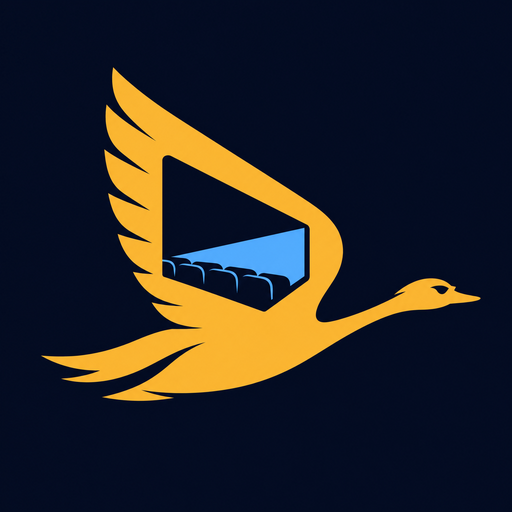
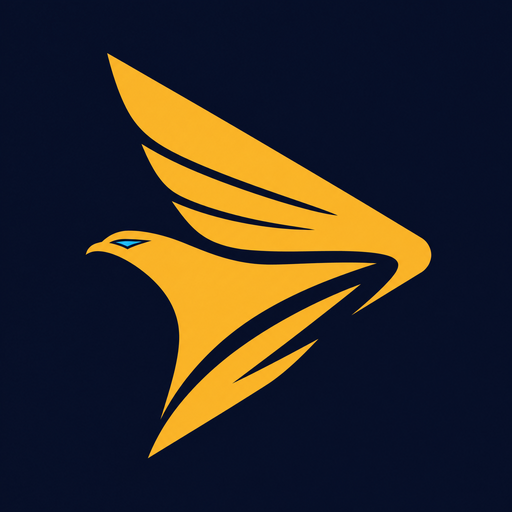
Checkpoint: 飞鸿影院图标视觉更新：启用新的暖金飞鸟播放符号品牌图标，深墨蓝启动背景；图标资源压缩至约 212KB；全局底部导航更新为简洁高对比图标胶囊选中态，标签页同步优化标签字重与间距。已通过图标尺寸、TypeScript 与 Android 导出校验。

Changed region(s): [[0.0938, 0.0938, 0.9375, 0.9062]]

diff --git a/components/global-bottom-navigation.tsx b/components/global-bottom-navigation.tsx
@@ -24,7 +24,7 @@ export function GlobalBottomNavigation() {
         const active = selectedHref === item.href;
         return (
           <Pressable key={item.href} accessibilityRole="tab" accessibilityState={{ selected: active }} accessibilityLabel={item.label} onPress={() => router.navigate(item.href as never)} style={({ pressed }) => [styles.item, pressed && styles.pressed]}>
-            <IconSymbol name={item.icon} size={23} color={active ? "#F5B64B" : "#8E9AB0"} />
+            <View style={[styles.iconShell, active && styles.iconShellActive]}><IconSymbol name={item.icon} size={21} color={active ? "#F5B64B" : "#A0AEC0"} /></View>
             <Text style={[styles.label, active && styles.labelActive]}>{item.label}</Text>
           </Pressable>
         );
@@ -35,7 +35,9 @@ export function GlobalBottomNavigation() {
 
 const styles = StyleSheet.create({
   container: { position: "absolute", left: 0, right: 0, bottom: 0, backgroundColor: "#0B1020", borderTopWidth: StyleSheet.hairlineWidth, borderTopColor: "#2B3958", flexDirection: "row", alignItems: "flex-start", paddingTop: 8, shadowColor: "#000000", shadowOpacity: 0.3, shadowRadius: 12, elevation: 12 },
-  item: { flex: 1, alignItems: "center", gap: 2, paddingTop: 1 },
+  item: { flex: 1, alignItems: "center", gap: 1, paddingTop: 0 },
+  iconShell: { width: 31, height: 29, borderRadius: 10, alignItems: "center", justifyContent: "center" },
+  iconShellActive: { backgroundColor: "#222C45", borderWidth: 1, borderColor: "#3C4D70" },
   label: { color: "#8E9AB0", fontSize: 11, lineHeight: 16, fontWeight: "600" },
   labelActive: { color: "#F5B64B", fontWeight: "800" },
   pressed: { opacity: 0.68, transform: [{ scale: 0.97 }] },

diff --git a/app.config.ts b/app.config.ts
@@ -32,7 +32,7 @@ const env = {
   appSlug: "fsvod-mobile",
   // S3 URL of the app logo - set this to the URL returned by generate_image when creating custom logo
   // Leave empty to use the default icon from assets/images/icon.png
-  logoUrl: "https://8081-iqwonwej9r8kim06ykrg8-4113f88b.us3.manus.computer/manus-storage/fsvod-icon_e238c5d4.png",
+  logoUrl: "https://8081-iqwonwej9r8kim06ykrg8-4113f88b.us3.manus.computer/manus-storage/fsvod-icon-refined_002017fa.png",
   scheme: schemeFromBundleId,
   iosBundleId: bundleId,
   androidPackage: bundleId,
@@ -56,7 +56,7 @@ const config: ExpoConfig = {
   },
   android: {
     adaptiveIcon: {
-      backgroundColor: "#E6F4FE",
+      backgroundColor: "#0B1020",
       foregroundImage: "./assets/images/android-icon-foreground.png",
       backgroundImage: "./assets/images/android-icon-background.png",
       monochromeImage: "./assets/images/android-icon-monochrome.png",
@@ -105,7 +105,7 @@ const config: ExpoConfig = {
         image: "./assets/images/splash-icon.png",
         imageWidth: 200,
         resizeMode: "contain",
-        backgroundColor: "#ffffff",
+        backgroundColor: "#0B1020",
         dark: {
           backgroundColor: "#000000",
         },

diff --git a/app/(tabs)/_layout.tsx b/app/(tabs)/_layout.tsx
@@ -26,6 +26,13 @@ export default function TabLayout() {
           borderTopColor: colors.border,
           borderTopWidth: 0.5,
         },
+        tabBarItemStyle: {
+          paddingTop: 1,
+        },
+        tabBarLabelStyle: {
+          fontSize: 11,
+          fontWeight: "700",
+        },
       }}
     >
       <Tabs.Screen

diff --git a/scripts/optimize-icons.py b/scripts/optimize-icons.py
@@ -1,9 +1,11 @@
 from pathlib import Path
 
+from pathlib import Path
+
 from PIL import Image
 
 
-SOURCE = Path("/home/ubuntu/webdev-static-assets/fsvod-icon.png")
+SOURCE = Path("/home/ubuntu/webdev-static-assets/fsvod-icon-refined.png")
 TARGETS = [
     Path("/home/ubuntu/fsvod-mobile/assets/images/icon.png"),
     Path("/home/ubuntu/fsvod-mobile/assets/images/splash-icon.png"),

diff --git a/todo.md b/todo.md
@@ -24,3 +24,5 @@
 - [x] 支持仅 Wi‑Fi 下载与可配置离线存储上限
 - [x] 支持下载队列暂停、续传、失败重试和任务管理
 - [x] 仅在应用前台且连接 Wi‑Fi 时自动续传下载队列
+- [x] 优化飞鸿影院品牌图标与启动图为简洁现代风格
+- [x] 统一优化底部导航和常用操作图标的视觉样式
